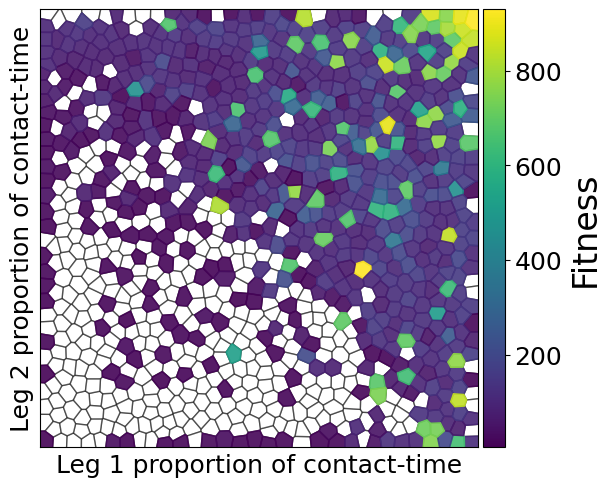
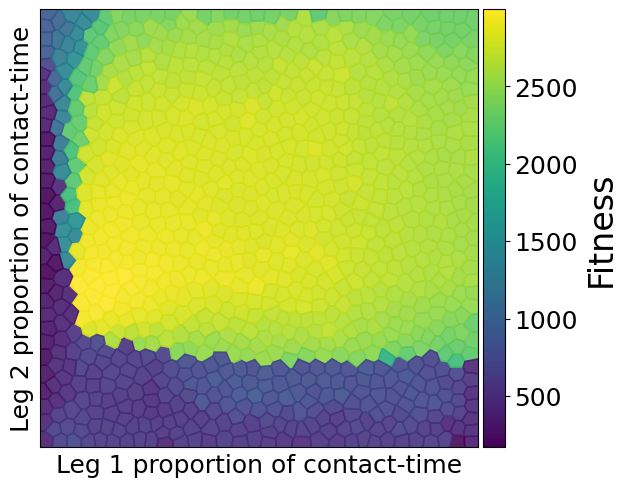
Handle multiple archives and species ids

diff --git a/src/analysis/plot_archives.py b/src/analysis/plot_archives.py
@@ -40,8 +40,8 @@ BD_AXIS = [
 
 def plot_archive(
     prefixe,
-    exp_path,
-    save_path,
+    exp_path, # Results path
+    save_path, # Plots path
     env_names,
     algo_names,
     max_evals,
@@ -65,72 +65,105 @@ def plot_archive(
     print(
         "\nReading and printing {} archive data files:".format(len(archive_data_files))
     )
-    print(archive_data_files)
-    print("\n\n", archive_data_types)
-
-    print("\n\n", archive_data_additional_files)
-
-    print("\n\n", archive_bd_axis)
+    # print(archive_data_files) # The archive files
+    # print("\n\n", archive_data_types) # Usually all false
+    # print("\n\nARCHIVE DATA ADDITIONAL", archive_data_additional_files) # Centroid file
+    # print("\n\n", archive_bd_axis) # Just leg 1 and leg 2 axis labels
 
     if ryan:
-        pass
+        archive_data_files = os.listdir(exp_path)
+        env_name = "QDWalker2DBulletEnv-v0"
+        
+        for idx, archive_file in enumerate(archive_data_files):
+            print(f"IDX: {idx}\t ARCHIVE FILE: {archive_file}")
+            archive_plot_filename = f"archive_ryan_{env_name}_beh_{idx}"
 
-    # Plot all archives
-    for idx, archive_file in enumerate(archive_data_files):
-
-        archive_plot_filename = archive_file[archive_file.rfind("/") + 1 :].replace(".dat", "")
-        archive_plot_filename = archive_plot_filename.replace("BulletEnv-v0", "" ).replace("2D", "")
-
-        if archive_data_types[idx]:
-            if os.path.isfile(archive_data_additional_files[idx][0]) and os.path.isfile(
-                archive_data_additional_files[idx][1]
-            ):
-                plotable = plot_cartesian_map(
+            plotable = plot_cvt_map(
                     archive_file,
-                    archive_data_additional_files[idx][0],
-                    archive_data_additional_files[idx][1],
+                    './CVT/centroids_1024_2.dat', # Point to centroid file used
                     save_path,
                     archive_plot_filename,
                     min_fit=min_fit,
                     max_fit=max_fit,
                     verbose=verbose,
                     colormap=mpl.cm.viridis,
-                    bd_axis=archive_bd_axis[idx],
-                )
-            else:
-                plotable = True
-                print(
-                    "Cells files",
-                    archive_data_additional_files[idx][0],
-                    "or",
-                    archive_data_additional_files[idx][1],
-                    "does not exist.",
-                )
-        else:
-            if os.path.isfile(archive_data_additional_files[idx]):
-                plotable = plot_cvt_map(
-                    archive_file,
-                    archive_data_additional_files[idx],
-                    save_path,
-                    archive_plot_filename,
-                    min_fit=min_fit,
-                    max_fit=max_fit,
-                    verbose=verbose,
-                    colormap=mpl.cm.viridis,
-                    bd_axis=archive_bd_axis[idx],
+                    # bd_axis=archive_bd_axis,
                     ryan=ryan
-                )
+            )
+
+            archive_plot_filename = f"archive_ryan_{env_name}_species_{idx}"
+
+            plotable = plot_cvt_map(
+                    archive_file,
+                    './CVT/centroids_1024_2.dat', # Point to centroid file used
+                    save_path,
+                    archive_plot_filename,
+                    min_fit=min_fit,
+                    max_fit=max_fit,
+                    verbose=verbose,
+                    colormap=mpl.cm.viridis,
+                    # bd_axis=archive_bd_axis,
+                    ryan=ryan,
+                    plot_species=True
+            )
+
+    else: # PGA-Map-Elites original method for plotting information     
+        # Plot all archives
+        for idx, archive_file in enumerate(archive_data_files):
+
+            archive_plot_filename = archive_file[archive_file.rfind("/") + 1 :].replace(".dat", "")
+            archive_plot_filename = archive_plot_filename.replace("BulletEnv-v0", "" ).replace("2D", "")
+
+            if archive_data_types[idx]:
+                if os.path.isfile(archive_data_additional_files[idx][0]) and os.path.isfile(
+                    archive_data_additional_files[idx][1]
+                ):
+                    plotable = plot_cartesian_map(
+                        archive_file,
+                        archive_data_additional_files[idx][0],
+                        archive_data_additional_files[idx][1],
+                        save_path,
+                        archive_plot_filename,
+                        min_fit=min_fit,
+                        max_fit=max_fit,
+                        verbose=verbose,
+                        colormap=mpl.cm.viridis,
+                        bd_axis=archive_bd_axis[idx],
+                    )
+                else:
+                    plotable = True
+                    print(
+                        "Cells files",
+                        archive_data_additional_files[idx][0],
+                        "or",
+                        archive_data_additional_files[idx][1],
+                        "does not exist.",
+                    )
             else:
-                plotable = True
-                print(
-                    "Centroid file",
-                    archive_data_additional_files[idx],
-                    "does not exist.",
-                )
-        if not plotable:
-            archive_plotable = False
-            break
-    return archive_plotable
+                if os.path.isfile(archive_data_additional_files[idx]):
+                    plotable = plot_cvt_map(
+                        archive_file,
+                        archive_data_additional_files[idx],
+                        save_path,
+                        archive_plot_filename,
+                        min_fit=min_fit,
+                        max_fit=max_fit,
+                        verbose=verbose,
+                        colormap=mpl.cm.viridis,
+                        bd_axis=archive_bd_axis[idx],
+                        ryan=ryan
+                    )
+                else:
+                    plotable = True
+                    print(
+                        "Centroid file",
+                        archive_data_additional_files[idx],
+                        "does not exist.",
+                    )
+            if not plotable:
+                archive_plotable = False
+                break
+        return archive_plotable
 
 
 #############################

diff --git a/src/analysis/plot_cvt_maps.py b/src/analysis/plot_cvt_maps.py
@@ -25,7 +25,8 @@ def plot_cvt_map(
     verbose=False,
     colormap=mpl.cm.viridis,
     bd_axis=["Leg 1 proportion of contact-time", "Leg 2 proportion of contact-time"],
-    ryan=False
+    ryan=False,
+    plot_species=False
 ):
     """
     Plot a cvt archive.
@@ -47,7 +48,7 @@ def plot_cvt_map(
     verbose and print("\nArchive filename : ", archive_file)
     
     if ryan:
-        fit, beh = load_ryan_data()
+        fit, beh = load_ryan_data(archive_file, plot_species) # fit = fit if plot_species False, species if True
     else:
         fit, beh, _ = load_data(archive_file, centroids.shape[1], verbose=verbose)
 
@@ -274,18 +275,26 @@ def load_data(filename, dim, verbose=False):
 
 import json 
 
-def load_ryan_data():
+def load_ryan_data(archive_file, plot_species=False):
     archive = {}
-    save_file = './results_Ryan/archive.json'
+    results_file = f'./results_Ryan/{archive_file}'
 
-    with open(save_file) as f:
+    with open(results_file) as f:
         archive_dict = json.load(f)
 
-    for item in archive_dict["items"]:
-        archive[tuple(item[0])] = item[1]
+    if not plot_species:
+        for item in archive_dict["items"]:
+            archive[tuple(item[0])] = item[1]
 
-    beh_new = np.asarray(list(archive.keys())) 
-    fit_new = np.asarray(list(archive.values())) 
-    fit_new = np.expand_dims(fit_new, axis=1)
+        beh = np.asarray(list(archive.keys())) 
+        fit = np.asarray(list(archive.values()))
+        fit = np.expand_dims(fit, axis=1)
+    else:
+        for item in archive_dict["species_ids"]:
+            archive[tuple(item[0])] = item[1]
+        
+        beh = np.asarray(list(archive.keys())) 
+        fit = np.asarray(list(archive.values()))
+        fit = np.expand_dims(fit, axis=1)
     
-    return fit_new, beh_new
+    return fit, beh

diff --git a/run_plots.py b/run_plots.py
@@ -77,8 +77,6 @@ if __name__ == "__main__":
         )
         env.close()
     
-    print(args.save_videos)
-
     # Start plots
     launch_plots(
         args.save_path,
